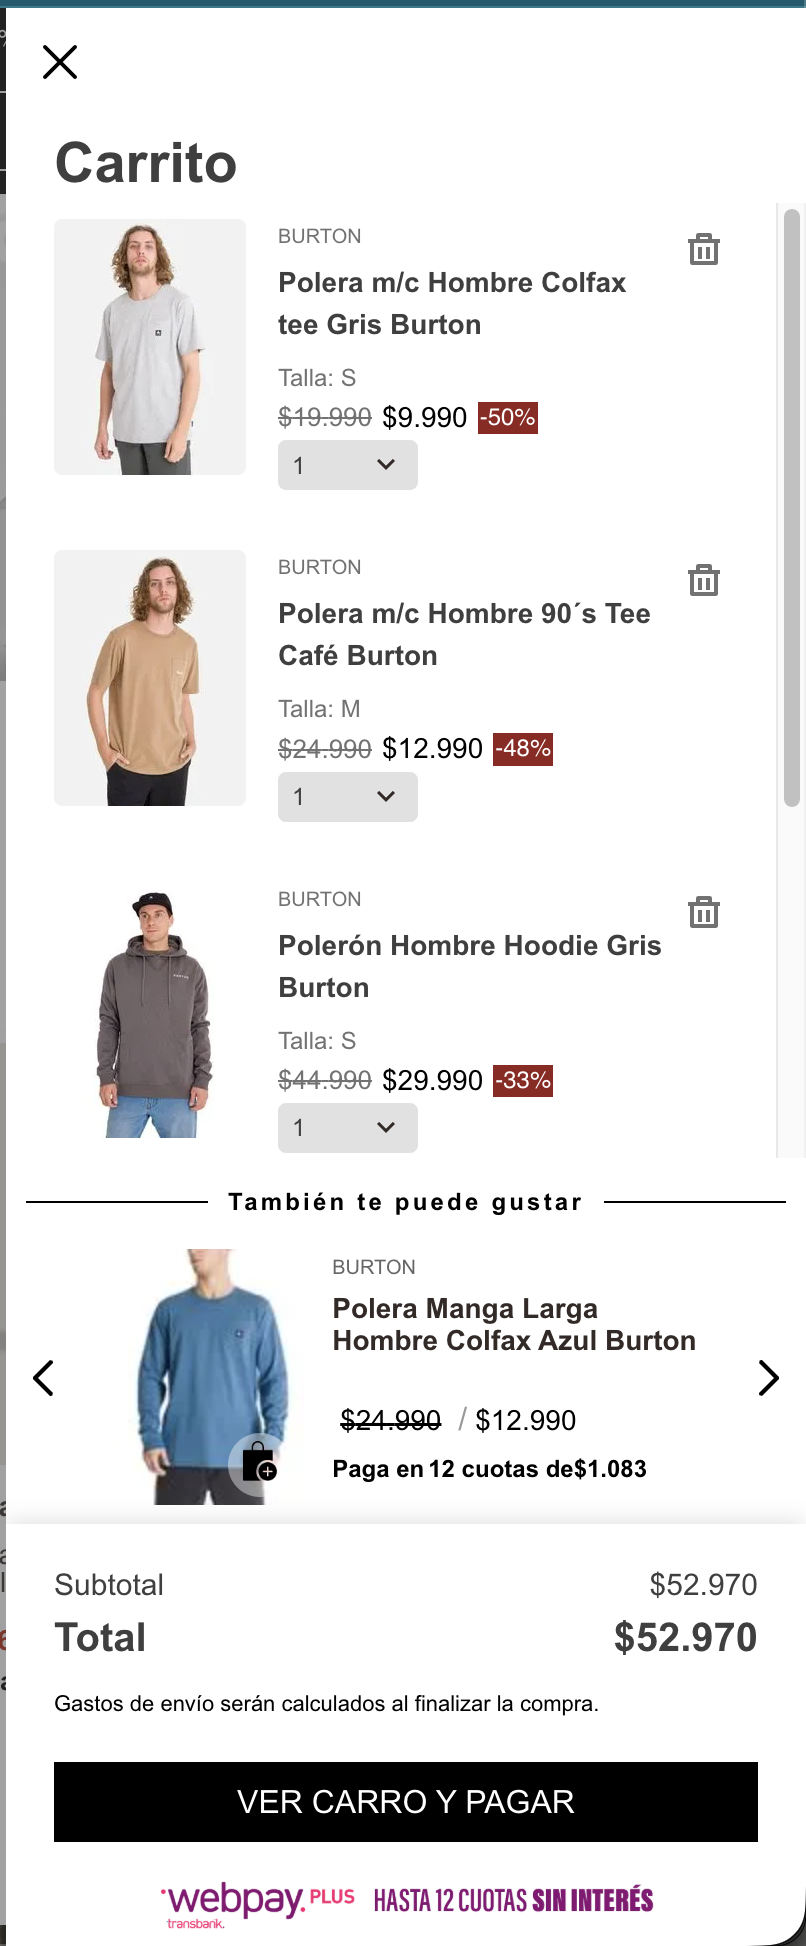
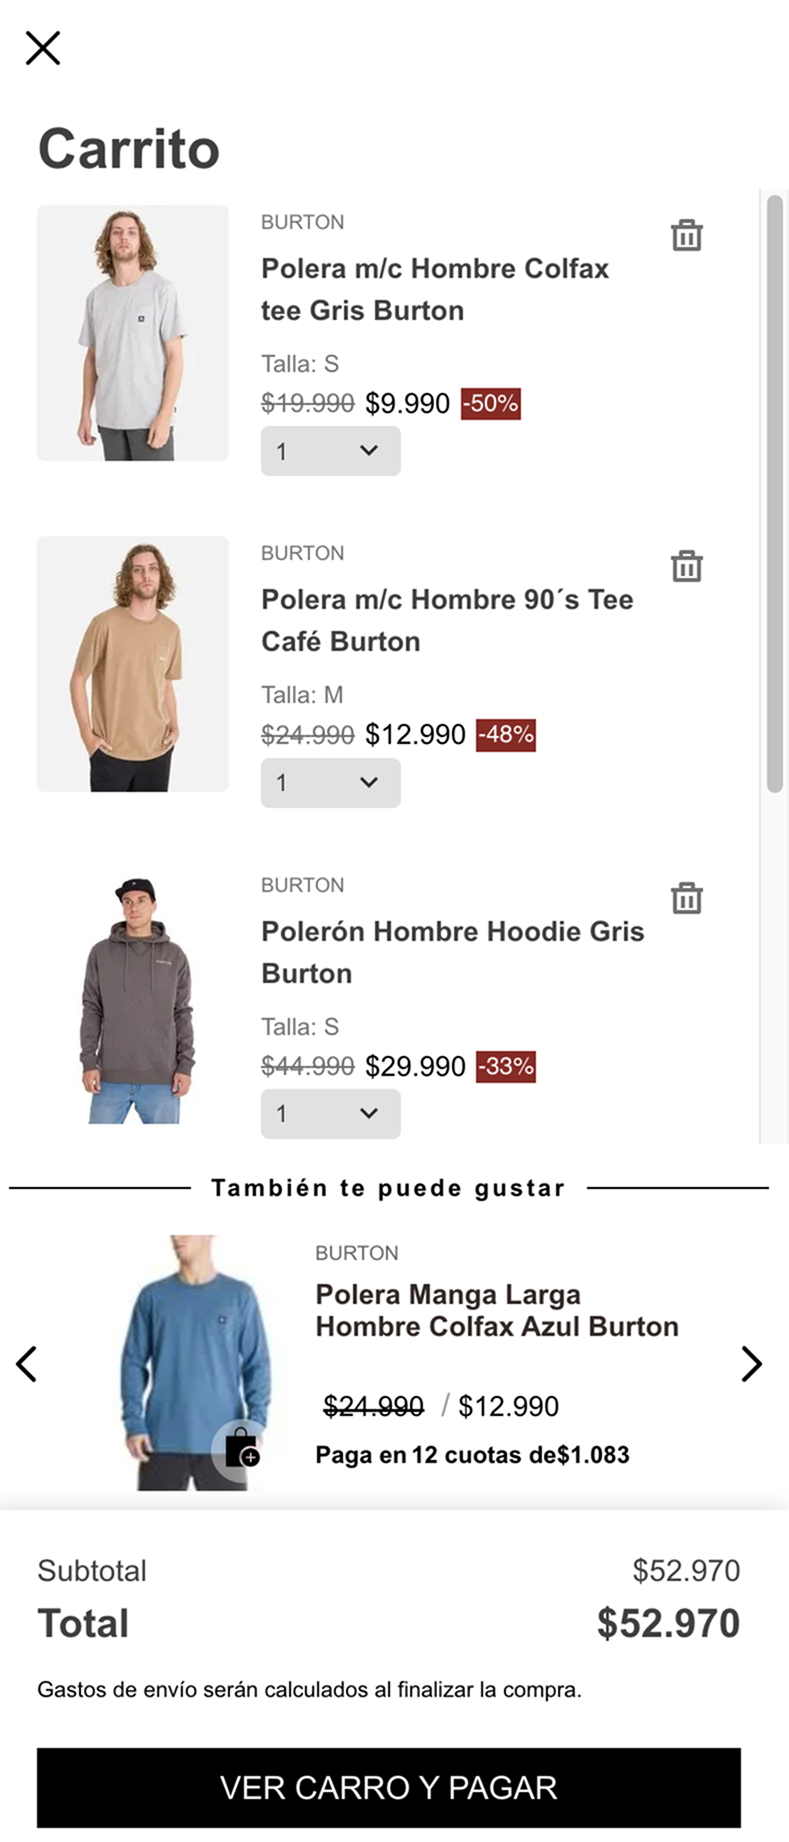
docs: update Mini-Cart screenshot and changelog

diff --git a/CHANGELOG.md b/CHANGELOG.md
@@ -7,6 +7,10 @@ and this project adheres to [Semantic Versioning](http://semver.org/spec/v2.0.0.
 
 ## [Unreleased]
 
+### Added
+
+- Documentation for placing the `recommendation-shelf` block inside the Mini-Cart (`minicart.v2`).
+
 ## [2.24.1] - 2026-08-26
 
 ### Fixed
